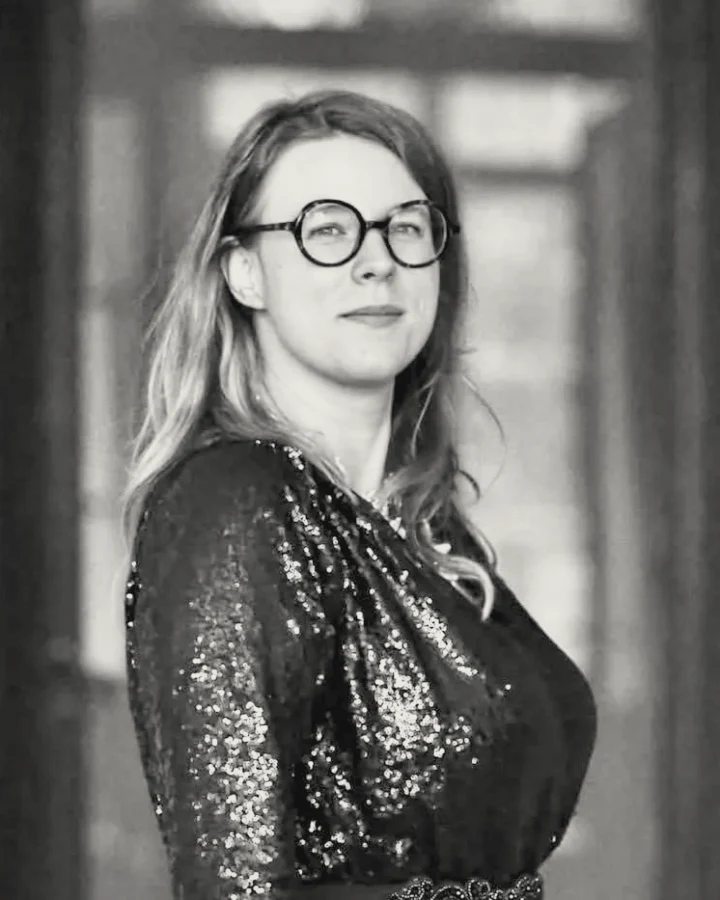
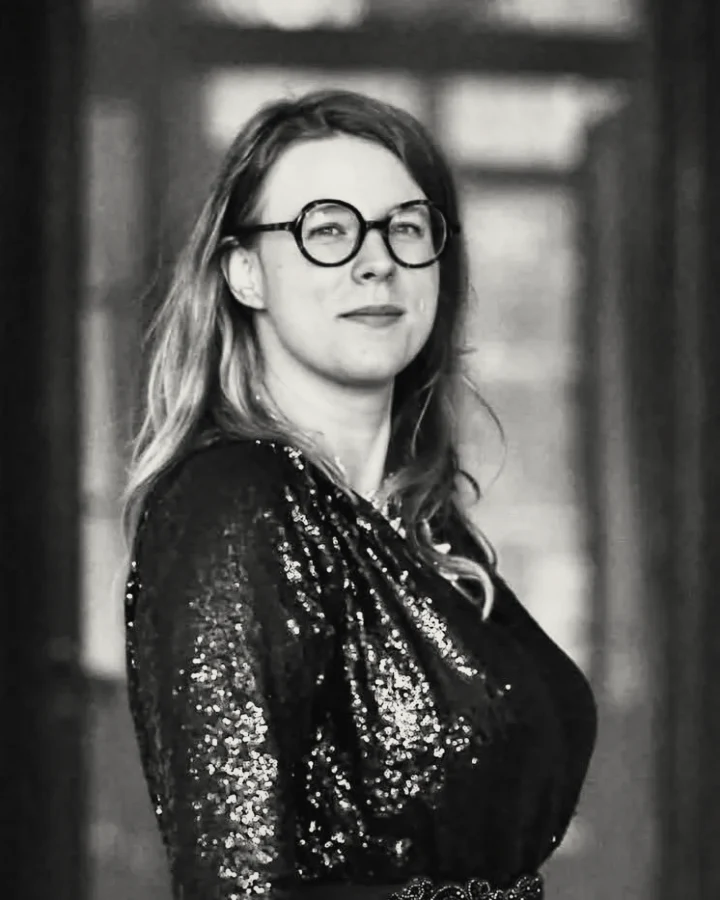
Ciemniejsze zdjęcia zespołu; cytat pod widokiem zachodnim (#32)
Claude-Session: https://claude.ai/code/session_01JqTzECbEDLjSdFDYMQNNHw

diff --git a/index.html b/index.html
@@ -106,6 +106,16 @@
         <figcaption class="caps">Widok od strony zachodniej</figcaption>
       </figure>
     </div>
+
+    <div class="quote quote--misja reveal">
+      <span class="mark">“</span>
+      <blockquote>Architektura nie jest miejscem na kompromisy: to arka przechowująca życie nasze i&nbsp;naszych bliskich.</blockquote>
+      <cite class="caps">Manifest N75</cite>
+      <a href="manifest.html" class="quote__sketch" aria-label="Poznaj manifest">
+        <img src="assets/img/szkic-n75.webp" alt="Odręczny szkic budynku N75" width="900" height="629" loading="lazy">
+        <span class="caps">Poznaj manifest →</span>
+      </a>
+    </div>
   </div>
 
   <figure class="panorama">
@@ -174,15 +184,6 @@
       </div>
     </div>
 
-    <div class="quote reveal">
-      <span class="mark">“</span>
-      <blockquote>Architektura nie jest miejscem na kompromisy: to arka przechowująca życie nasze i&nbsp;naszych bliskich.</blockquote>
-      <cite class="caps">Manifest N75</cite>
-      <a href="manifest.html" class="quote__sketch" aria-label="Poznaj manifest">
-        <img src="assets/img/szkic-n75.webp" alt="Odręczny szkic budynku N75" width="900" height="629" loading="lazy">
-        <span class="caps">Poznaj manifest →</span>
-      </a>
-    </div>
 
     <div class="materials">
       <div class="material reveal">

diff --git a/assets/css/style.css b/assets/css/style.css
@@ -1095,3 +1095,5 @@ a.tile { display: block; color: inherit; }
   .hero__seal { width: 92px; height: 92px; bottom: auto; top: calc(50% - 46px); right: 14px; }
   .hero__seal-arrow { height: 22px; }
 }
+
+.quote--misja { margin-top: clamp(64px, 8vw, 110px); }
